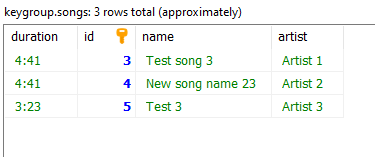
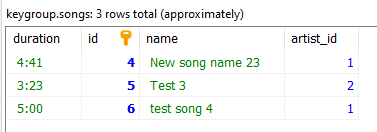
Add artists

diff --git a/db/index.js b/db/index.js
@@ -1,4 +1,6 @@
 const mysql = require('mysql')
+
+//Dabase info will be stored in a env file of course
 const pool = mysql.createPool({
     password: 'root',
     user: 'root',
@@ -9,9 +11,9 @@ const pool = mysql.createPool({
 
 let songsdb = {}
 
-songsdb.random = () => {
+songsdb.random = (artistId) => {
     return new Promise((resolve, reject) => {
-        pool.query('SELECT * FROM songs ORDER BY RAND() LIMIT 1', (err, results) => {
+        pool.query('SELECT * FROM songs WHERE artist_id = ? ORDER BY RAND() LIMIT 1', [artistId], (err, results) => {
             if (err) {
                 return reject(err)
             }
@@ -20,9 +22,9 @@ songsdb.random = () => {
     })
 }
 
-songsdb.one = (id) => {
+songsdb.one = (artistId, songId) => {
     return new Promise((resolve, reject) => {
-        pool.query('SELECT * FROM songs WHERE id = ?', [id], (err, results) => {
+        pool.query('SELECT * FROM songs WHERE artist_Id = ? AND id = ?', [artistId, songId], (err, results) => {
             if (err) {
                 return reject(err)
             }
@@ -31,20 +33,25 @@ songsdb.one = (id) => {
     })
 }
 
-songsdb.delete = (id) => {
+songsdb.delete = (artistId, songId) => {
     return new Promise((resolve, reject) => {
-        pool.query('DELETE FROM songs WHERE id = ?', [id], (err, results) => {
+        pool.query('DELETE FROM songs WHERE artist_Id = ? AND id = ?', [artistId, songId], (err, results) => {
             if (err) {
                 return reject(err)
             }
-            return resolve('Song deleted!')
+            if (results && results.affectedRows > 0) {
+                return resolve('Song deleted!')
+            } else {
+                return resolve('could not delete song')
+            }
         })
     })
 }
 
-songsdb.put = (id, data) => {
+songsdb.put = (artistId, songId, data) => {
     return new Promise((resolve, reject) => {
-        pool.query('UPDATE songs SET name = ?, duration = ?, artist = ? WHERE id = ?', [data.name, data.duration, data.artist, id], (err, results) => {
+        const sqlQuery = 'UPDATE songs SET name = ?, duration = ? WHERE artist_id = ? AND id = ?'
+        pool.query(sqlQuery, [data.name, data.duration, artistId, songId], (err, results) => {
             if (err) {
                 return reject(err)
             }

diff --git a/routes/index.js b/routes/index.js
@@ -3,9 +3,9 @@ const db = require('../db')
 
 const router = express.Router()
 
-router.get('/artists/songs/random', async (req, res) => {
+router.get('/artists/:artistId/songs/random', async (req, res) => {
     try {
-        const results = await db.random()
+        const results = await db.random(req.params.artistId)
         res.json(results)
     } catch (error) {
         console.log(error)
@@ -13,9 +13,9 @@ router.get('/artists/songs/random', async (req, res) => {
     }
 })
 
-router.get('/artists/songs/:id', async (req, res) => {
+router.get('/artists/:artistId/songs/:songId', async (req, res) => {
     try {
-        const results = await db.one(req.params.id)
+        const results = await db.one(req.params.artistId, req.params.songId)
         if (!results.length) {
             res.send('Song not found')
         } else {
@@ -33,9 +33,9 @@ router.get('/', (req, res) => {
 
 
 
-router.delete('/artists/songs/delete/:id', async (req, res) => {
+router.delete('/artists/:artistId/songs/delete/:songId', async (req, res) => {
     try {
-        const results = await db.delete(req.params.id)
+        const results = await db.delete(req.params.artistId, req.params.songId)
         res.json(results)
     } catch (error) {
         console.log(error)
@@ -43,13 +43,13 @@ router.delete('/artists/songs/delete/:id', async (req, res) => {
     }
 })
 
-router.put('/artists/songs/:id', async (req, res) => {
-    if (!req.body.name || !req.body.duration || !req.body.artist) {
+router.put('/artists/:artistId/songs/:songId', async (req, res) => {
+    if (!req.body.name || !req.body.duration) {
         res.status(400).send('Please provide valid date to update the song')
     }
 
     try {
-        const results = await db.put(req.params.id, req.body)
+        const results = await db.put(req.params.artistId, req.params.songId, req.body)
         res.send(results)
     } catch (error) {
         console.log(error)
